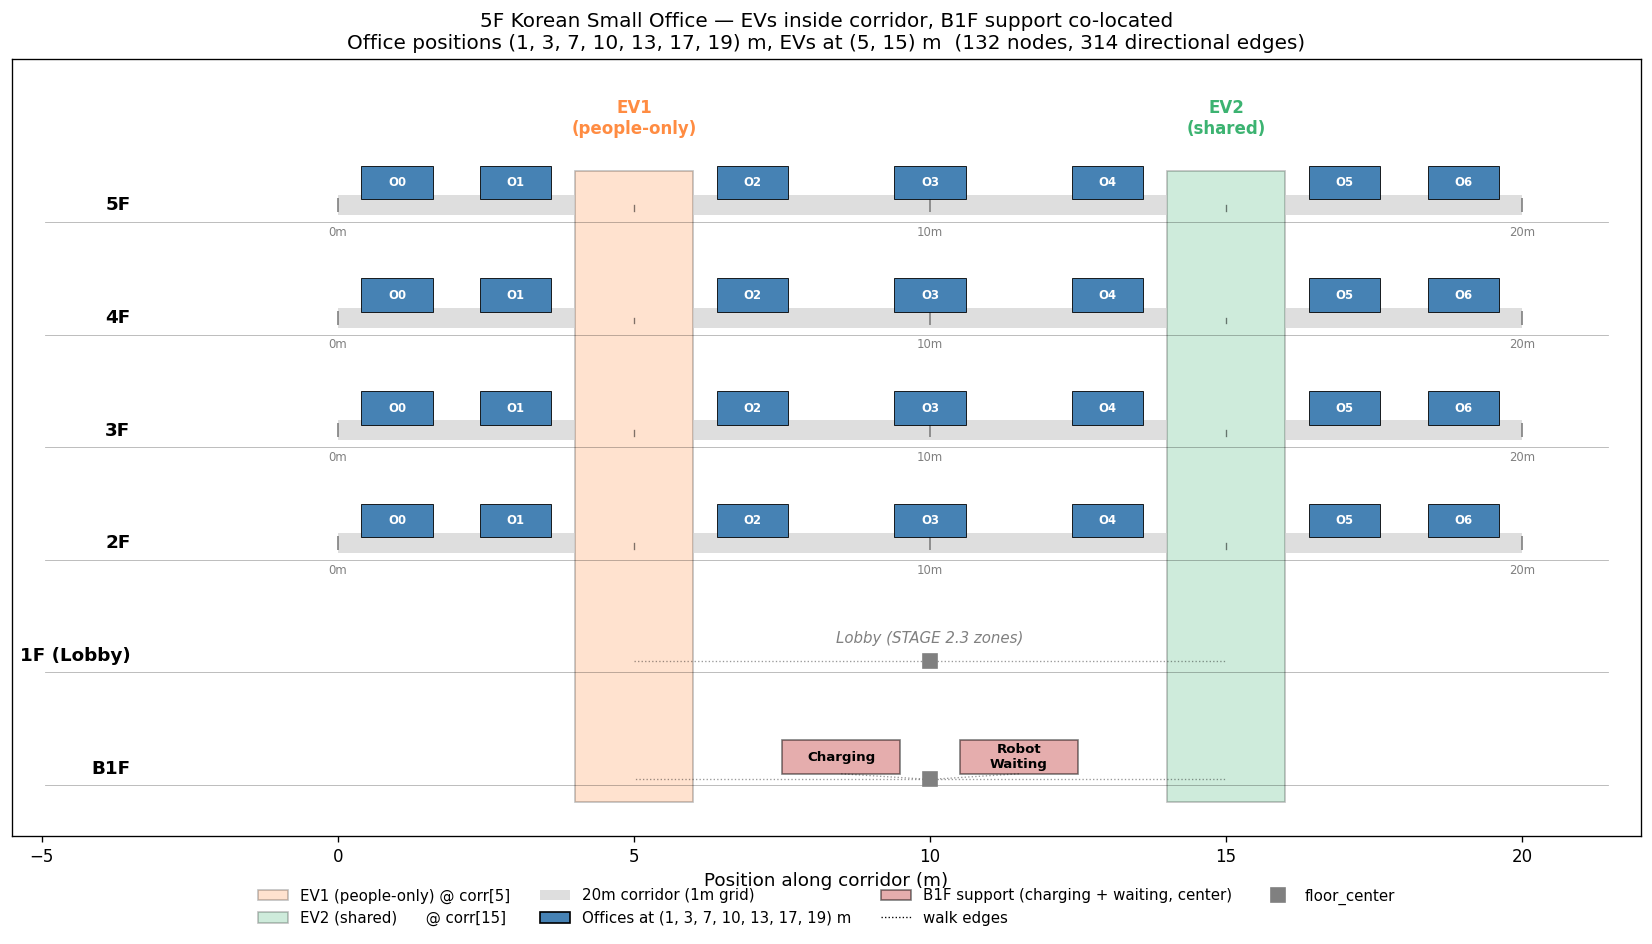
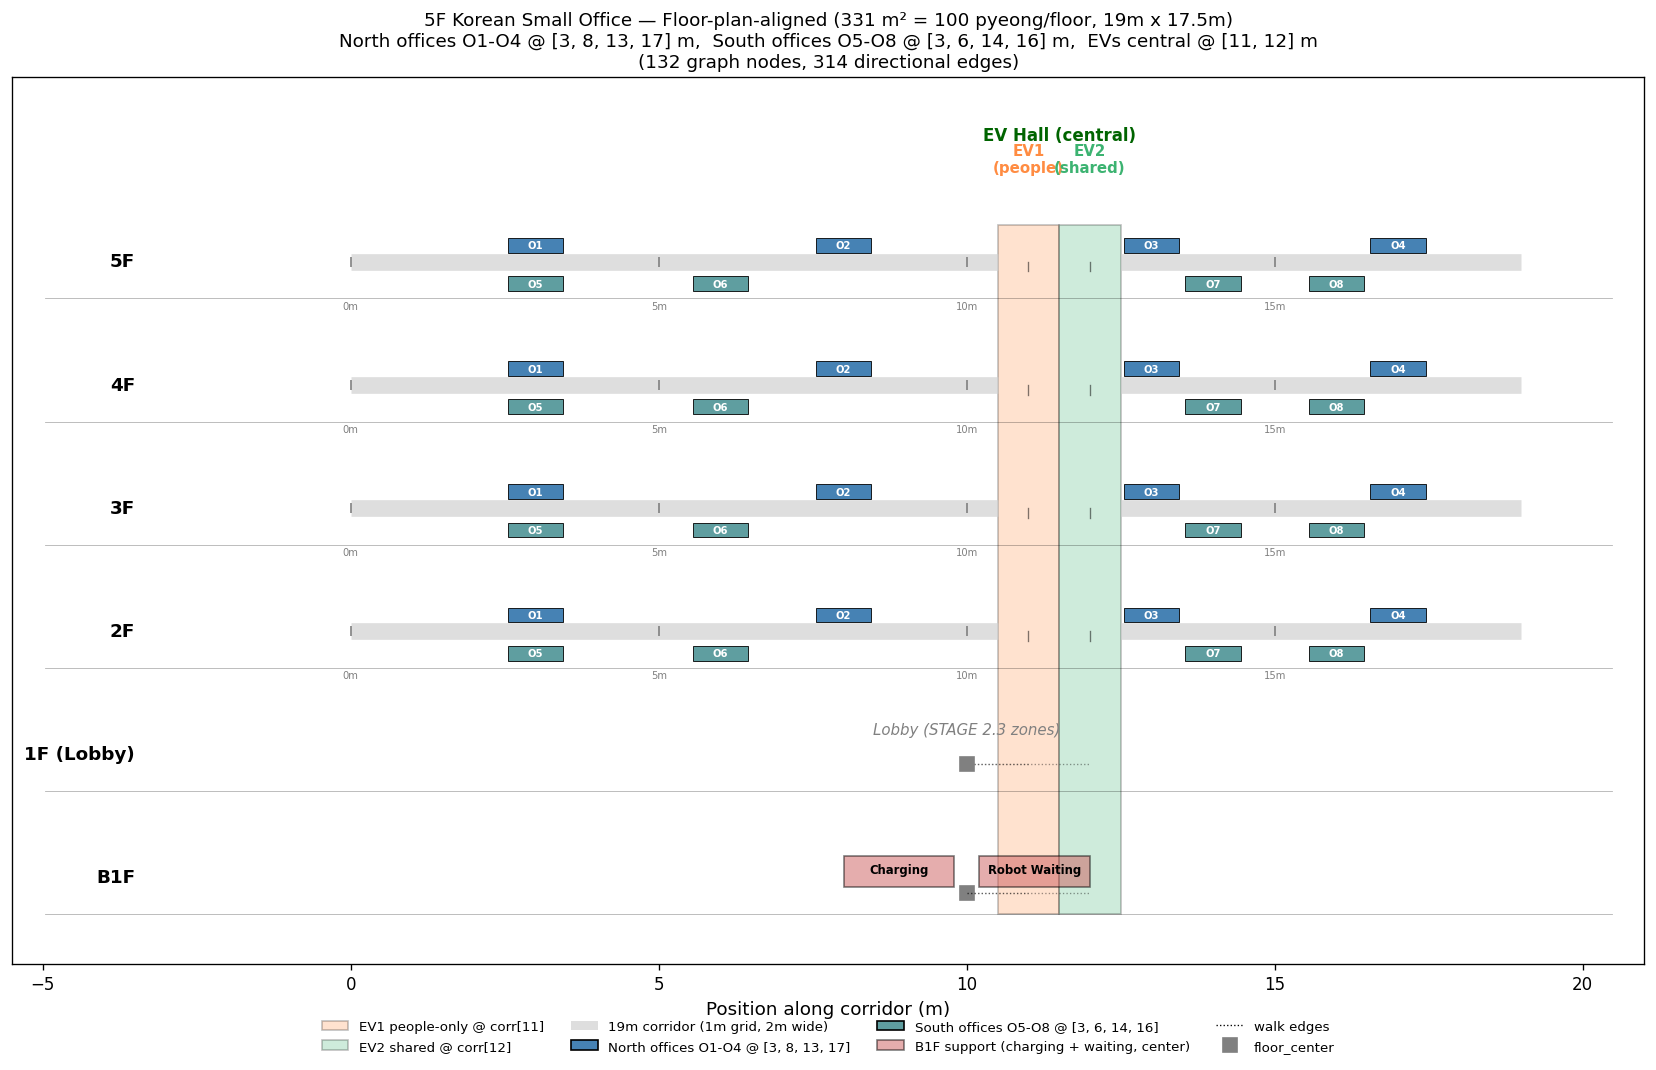
restructure 5F to match attached floor plan (100 pyeong, 8 offices, central EV hall)
Per user-provided floor plan:
  total floor area     331 m² (100평) / floor   [was 500 m²]
  footprint            19 m x 17.5 m             [was 22 m x 23 m]
  corridor length      19 m                       [was 20 m]
  corridor width       2 m                        [unchanged]
  offices per floor    8 (4 north + 4 south)     [was 7 single-row]
  elevator position    central EV hall            [was outer-corridor]

New default office layout (north of corridor):
  사무실 1-4 at corridor positions [3, 8, 13, 17] m

New default office layout (south of corridor):
  사무실 5-8 at corridor positions [3, 6, 14, 16] m

Central EV hall:
  EV1 (people-only) at corridor[11]
  EV2 (shared)       at corridor[12]
  (1 m apart, side-by-side, mirroring the floor plan's adjacent EV doors)

Offices on the same corridor position but different sides (e.g., O1 at
north-3 and O5 at south-3) are distinct graph nodes with the same
corridor branch point. The new 'side' attribute on office nodes
('north' or 'south') drives visualization but is informational for the
ABM (walk distances are identical either way; STAGE 3 agents can use
'side' if they ever need geometry-specific behavior).

API changes to build_building_graph:
  - n_offices_per_floor default 7 -> 8
  - office_positions_m default updated to 8-tuple matching floor plan
  - office_sides parameter added (4 north + 4 south, default)
  - ev_corridor_positions_m default (5, 15) -> (11, 12)
  - corridor_length_m default 20.0 -> 19.0
[…]

diff --git a/tests/test_space.py b/tests/test_space.py
@@ -9,7 +9,9 @@ from __future__ import annotations
 import pytest
 
 from simulation.space import (
+    DEFAULT_EV_CORRIDOR_POSITIONS_M,
     DEFAULT_OFFICE_POSITIONS_M,
+    DEFAULT_OFFICE_SIDES,
     build_building_graph,
 )
 
@@ -20,24 +22,24 @@ def baseline_graph():
 
 
 def test_baseline_node_count_breakdown(baseline_graph) -> None:
-    """5F baseline: 6 floor_center + 84 corridor + 28 office + 12 EV + 2 support = 132."""
+    """5F baseline (floor plan): 6 floor_center + 80 corridor + 32 office + 12 EV + 2 support = 132."""
     g = baseline_graph
     by_type: dict[str, int] = {}
     for _, data in g.nodes(data=True):
         by_type[data["type"]] = by_type.get(data["type"], 0) + 1
     assert by_type["floor_center"] == 6        # B1F + 1F + 2F-5F
-    assert by_type["corridor"] == 4 * 21        # 4 office floors x 21 positions (0..20)
-    assert by_type["office"] == 4 * 7           # 4 floors x 7 offices
+    assert by_type["corridor"] == 4 * 20        # 4 office floors x 20 positions (0..19)
+    assert by_type["office"] == 4 * 8           # 4 floors x 8 offices (4 north + 4 south)
     assert by_type["elevator"] == 2 * 6         # 2 EVs x 6 floors
     assert by_type["support"] == 2              # b1f_charging + b1f_waiting
-    assert g.number_of_nodes() == 6 + 84 + 28 + 12 + 2     # 132
+    assert g.number_of_nodes() == 6 + 80 + 32 + 12 + 2     # 132
 
 
 def test_corridor_consecutive_connectivity(baseline_graph) -> None:
     """Corridor positions p and p+1 are connected by walk edges in both directions."""
     g = baseline_graph
     for floor in (2, 3, 4, 5):
-        for p in range(20):  # 0..19 connect to p+1
+        for p in range(19):  # 0..18 connect to p+1 (last is 19)
             a = f"floor_{floor}_corr_{p}"
             b = f"floor_{floor}_corr_{p + 1}"
             assert g.has_edge(a, b), f"missing walk edge {a} -> {b}"
@@ -45,12 +47,19 @@ def test_corridor_consecutive_connectivity(baseline_graph) -> None:
             assert g[a][b]["walk"]["distance_m"] == pytest.approx(1.0)
 
 
-def test_office_branch_positions_match_D2(baseline_graph) -> None:
-    """D2 (revised): offices at [1, 3, 7, 10, 13, 17, 19] m to make room for EVs at [5, 15]."""
-    assert DEFAULT_OFFICE_POSITIONS_M == (1, 3, 7, 10, 13, 17, 19)
+def test_office_branch_positions_match_floor_plan(baseline_graph) -> None:
+    """Floor plan layout: 4 north offices [3, 8, 13, 17] + 4 south offices [3, 6, 14, 16],
+    central EV hall at [11, 12]."""
+    assert DEFAULT_OFFICE_POSITIONS_M == (3, 8, 13, 17, 3, 6, 14, 16)
+    assert DEFAULT_OFFICE_SIDES == (
+        "north", "north", "north", "north",
+        "south", "south", "south", "south",
+    )
     g = baseline_graph
     for floor in (2, 3, 4, 5):
-        for n_office, expected_pos in enumerate(DEFAULT_OFFICE_POSITIONS_M):
+        for n_office, (expected_pos, expected_side) in enumerate(
+            zip(DEFAULT_OFFICE_POSITIONS_M, DEFAULT_OFFICE_SIDES, strict=True)
+        ):
             office_node = f"floor_{floor}_office_{n_office}"
             corr_node = f"floor_{floor}_corr_{expected_pos}"
             assert g.has_edge(office_node, corr_node), (
@@ -60,20 +69,38 @@ def test_office_branch_positions_match_D2(baseline_graph) -> None:
             data = g.nodes[office_node]
             assert data["corridor_position_m"] == expected_pos
             assert data["office_id"] == n_office
+            assert data["side"] == expected_side
 
 
-def test_ev_positions_inside_corridor_on_office_floors(baseline_graph) -> None:
-    """EV1 at corridor[5] (between O1=3 and O2=7); EV2 at corridor[15] (between O4=13 and O5=17)."""
+def test_office_sides_split_evenly(baseline_graph) -> None:
+    """4 offices on north (사무실 1-4) + 4 on south (사무실 5-8) per floor."""
     g = baseline_graph
-    assert g.graph["ev_corridor_positions_m"] == (5, 15)
     for floor in (2, 3, 4, 5):
-        # EV1 ↔ corridor[5]
-        assert g.has_edge(f"ev_EV1_{floor}", f"floor_{floor}_corr_5")
-        assert g[f"ev_EV1_{floor}"][f"floor_{floor}_corr_5"]["walk"]["distance_m"] == pytest.approx(1.0)
-        # EV2 ↔ corridor[15]
-        assert g.has_edge(f"ev_EV2_{floor}", f"floor_{floor}_corr_15")
-        assert g[f"ev_EV2_{floor}"][f"floor_{floor}_corr_15"]["walk"]["distance_m"] == pytest.approx(1.0)
-        # Office floor floor_center should NOT directly connect to EV anymore
+        north_count = sum(
+            1 for _, d in g.nodes(data=True)
+            if d.get("type") == "office" and d.get("floor") == floor and d.get("side") == "north"
+        )
+        south_count = sum(
+            1 for _, d in g.nodes(data=True)
+            if d.get("type") == "office" and d.get("floor") == floor and d.get("side") == "south"
+        )
+        assert north_count == 4
+        assert south_count == 4
+
+
+def test_ev_positions_central_hall(baseline_graph) -> None:
+    """Floor plan: EV1 at corridor[11], EV2 at corridor[12] — central EV hall, side by side."""
+    g = baseline_graph
+    assert g.graph["ev_corridor_positions_m"] == (11, 12)
+    assert DEFAULT_EV_CORRIDOR_POSITIONS_M == (11, 12)
+    for floor in (2, 3, 4, 5):
+        # EV1 ↔ corridor[11]
+        assert g.has_edge(f"ev_EV1_{floor}", f"floor_{floor}_corr_11")
+        assert g[f"ev_EV1_{floor}"][f"floor_{floor}_corr_11"]["walk"]["distance_m"] == pytest.approx(1.0)
+        # EV2 ↔ corridor[12]
+        assert g.has_edge(f"ev_EV2_{floor}", f"floor_{floor}_corr_12")
+        assert g[f"ev_EV2_{floor}"][f"floor_{floor}_corr_12"]["walk"]["distance_m"] == pytest.approx(1.0)
+        # Office floor floor_center should NOT directly connect to EV
         assert not g.has_edge(f"floor_{floor}_center", f"ev_EV1_{floor}")
         assert not g.has_edge(f"floor_{floor}_center", f"ev_EV2_{floor}")
 
@@ -140,13 +167,20 @@ def test_invalid_inputs_raise() -> None:
     with pytest.raises(ValueError):
         build_building_graph(office_positions_m=(1, 4, 7))  # length mismatch
     with pytest.raises(ValueError):
-        build_building_graph(office_positions_m=(1, 3, 7, 10, 13, 17, 30))  # out of range
+        # out of range (corridor max position = 19 with 19m length + 1m grid)
+        build_building_graph(office_positions_m=(3, 8, 13, 17, 3, 6, 14, 30))
     with pytest.raises(ValueError):
         build_building_graph(n_people_only_evs=0, n_shared_evs=0)
     with pytest.raises(ValueError):
-        build_building_graph(ev_corridor_positions_m=(5,))  # wrong length
+        build_building_graph(ev_corridor_positions_m=(11,))  # wrong length
     with pytest.raises(ValueError):
-        build_building_graph(ev_corridor_positions_m=(5, 100))  # out of range
+        build_building_graph(ev_corridor_positions_m=(11, 100))  # out of range
     with pytest.raises(ValueError):
-        # EV overlaps office position
-        build_building_graph(ev_corridor_positions_m=(3, 15))
+        # EV overlaps office position (3 is used by 사무실 1)
+        build_building_graph(ev_corridor_positions_m=(3, 12))
+    with pytest.raises(ValueError):
+        # office_sides length mismatch
+        build_building_graph(office_sides=("north",) * 5)
+    with pytest.raises(ValueError):
+        # office_sides invalid value
+        build_building_graph(office_sides=("invalid",) * 8)

diff --git a/simulation/space.py b/simulation/space.py
@@ -13,16 +13,21 @@ from __future__ import annotations
 
 import networkx as nx
 
-DEFAULT_OFFICE_POSITIONS_M: tuple[int, ...] = (1, 3, 7, 10, 13, 17, 19)
-DEFAULT_EV_CORRIDOR_POSITIONS_M: tuple[int, ...] = (5, 15)
+DEFAULT_OFFICE_POSITIONS_M: tuple[int, ...] = (3, 8, 13, 17, 3, 6, 14, 16)
+DEFAULT_OFFICE_SIDES: tuple[str, ...] = (
+    "north", "north", "north", "north",
+    "south", "south", "south", "south",
+)
+DEFAULT_EV_CORRIDOR_POSITIONS_M: tuple[int, ...] = (11, 12)
 
 
 def build_building_graph(
     n_floors: int = 5,
-    n_offices_per_floor: int = 7,
+    n_offices_per_floor: int = 8,
     office_positions_m: tuple[int, ...] = DEFAULT_OFFICE_POSITIONS_M,
+    office_sides: tuple[str, ...] = DEFAULT_OFFICE_SIDES,
     ev_corridor_positions_m: tuple[int, ...] = DEFAULT_EV_CORRIDOR_POSITIONS_M,
-    corridor_length_m: float = 20.0,
+    corridor_length_m: float = 19.0,
     corridor_resolution_m: float = 1.0,
     floor_height_m: float = 3.6,
     n_people_only_evs: int = 1,
@@ -53,6 +58,15 @@ def build_building_graph(
         raise ValueError(
             f"len(office_positions_m)={len(office_positions_m)} must equal "
             f"n_offices_per_floor={n_offices_per_floor}"
+        )
+    if len(office_sides) != n_offices_per_floor:
+        raise ValueError(
+            f"len(office_sides)={len(office_sides)} must equal "
+            f"n_offices_per_floor={n_offices_per_floor}"
+        )
+    if any(s not in ("north", "south") for s in office_sides):
+        raise ValueError(
+            f"office_sides must contain only 'north' or 'south'; got {office_sides}"
         )
     n_evs_total = n_people_only_evs + n_shared_evs
     if n_evs_total < 1:
@@ -86,6 +100,7 @@ def build_building_graph(
     g.graph["floor_height_m"] = floor_height_m
     g.graph["n_offices_per_floor"] = n_offices_per_floor
     g.graph["office_positions_m"] = tuple(office_positions_m)
+    g.graph["office_sides"] = tuple(office_sides)
     g.graph["ev_corridor_positions_m"] = tuple(ev_corridor_positions_m)
     g.graph["n_people_only_evs"] = n_people_only_evs
     g.graph["n_shared_evs"] = n_shared_evs
@@ -127,13 +142,16 @@ def build_building_graph(
                 floor=floor_int,
                 position_m=float(p) * corridor_resolution_m,
             )
-        for n_office, corr_pos in enumerate(office_positions_m):
+        for n_office, (corr_pos, side) in enumerate(
+            zip(office_positions_m, office_sides, strict=True)
+        ):
             g.add_node(
                 f"floor_{floor_str}_office_{n_office}",
                 type="office",
                 floor=floor_int,
                 office_id=n_office,
                 corridor_position_m=int(corr_pos),
+                side=side,
             )
 
     # B1F support nodes — placed at center near floor_B1_center (per user request).